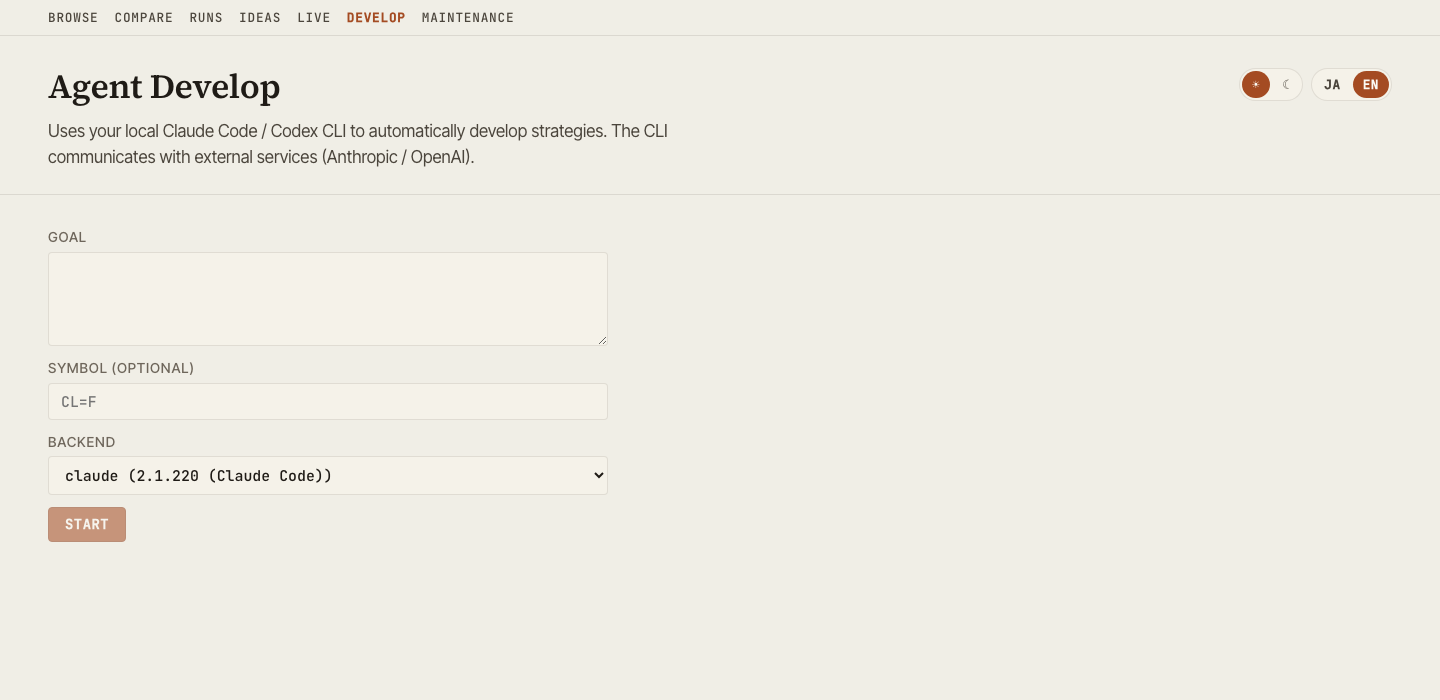
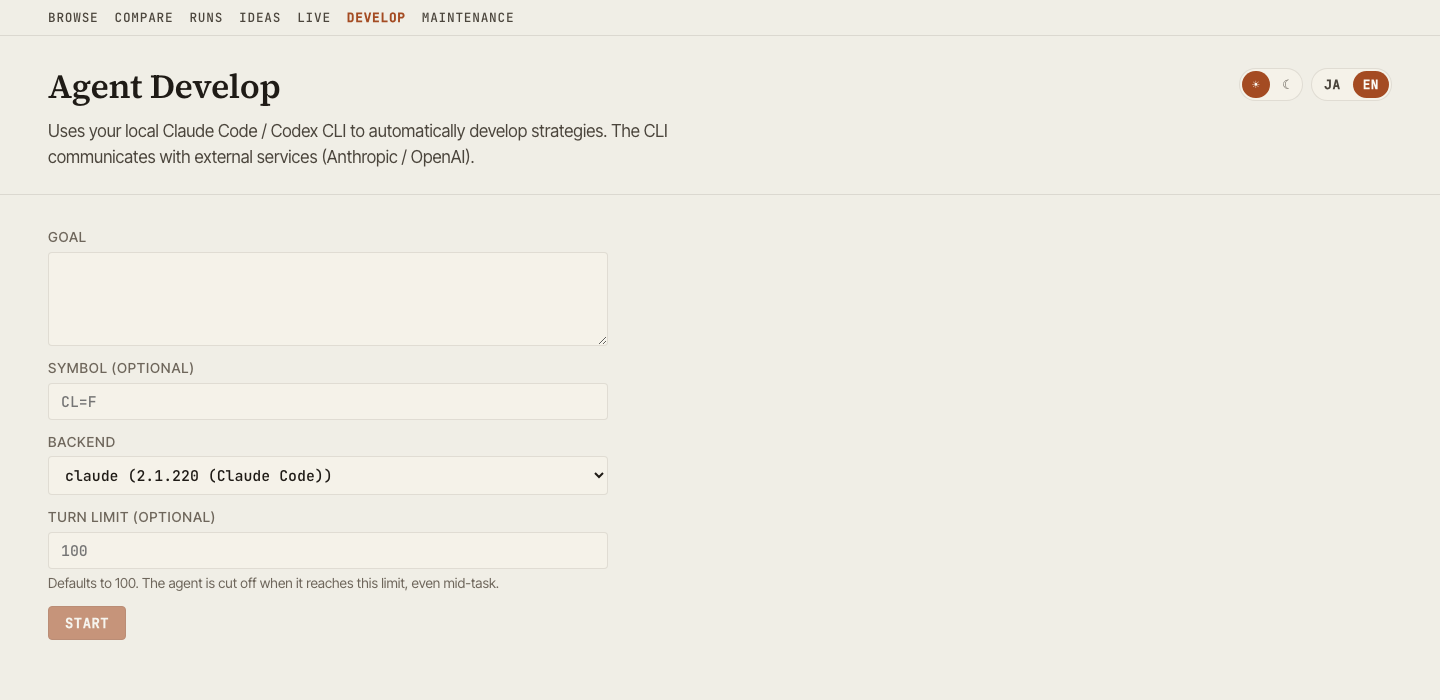
docs: 開発ビューのスクリーンショットを再撮影する
ターン上限の入力欄を追加したため日英を撮り直す。撮影用の
/api/agent/backends モックにも default_max_turns / max_max_turns を足す
（プレースホルダに出るため、含めないと撮影結果が非決定になる）。

Changed region(s): [[0.0312, 0.72, 0.3438, 0.93]]

diff --git a/frontend/e2e/screenshots/capture.spec.ts b/frontend/e2e/screenshots/capture.spec.ts
@@ -158,6 +158,10 @@ test.describe.serial('README / docs 用スクリーンショット撮影', () =>
                 { id: 'claude', available: true, version: '2.1.220 (Claude Code)' },
                 { id: 'codex', available: true, version: 'codex-cli 0.145.0' },
               ],
+              // ターン上限欄のプレースホルダに出るため、撮影結果を決定的に
+              // するにはサーバー既定値もモックに含める必要がある
+              default_max_turns: 100,
+              max_max_turns: 500,
             }),
           }),
         )
